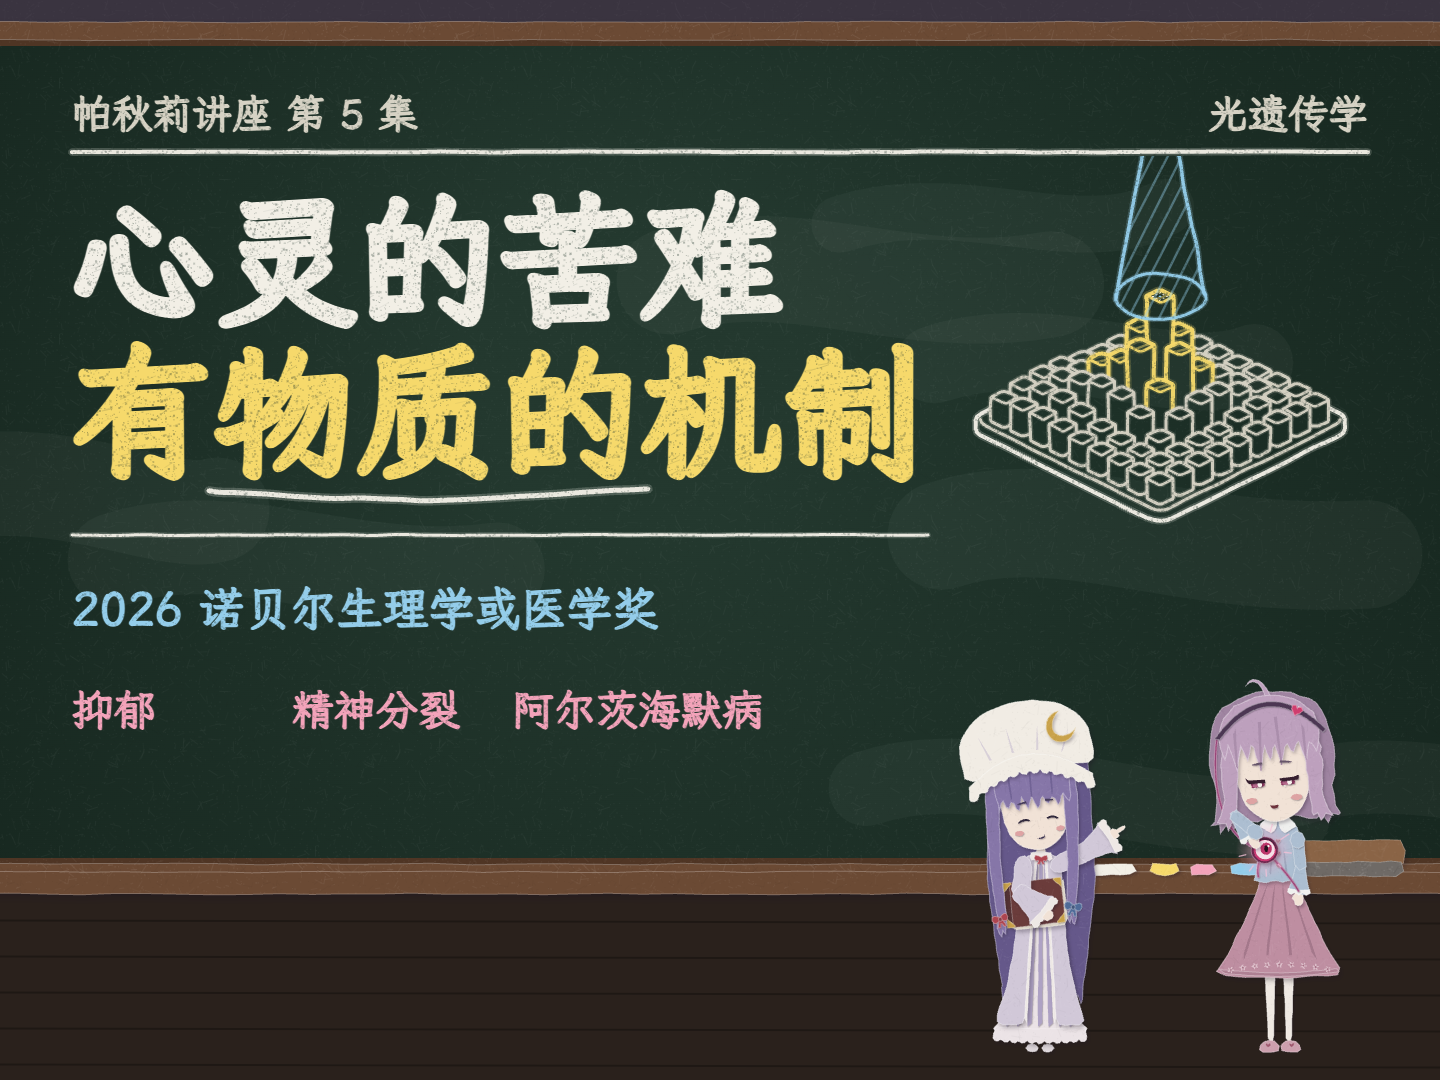
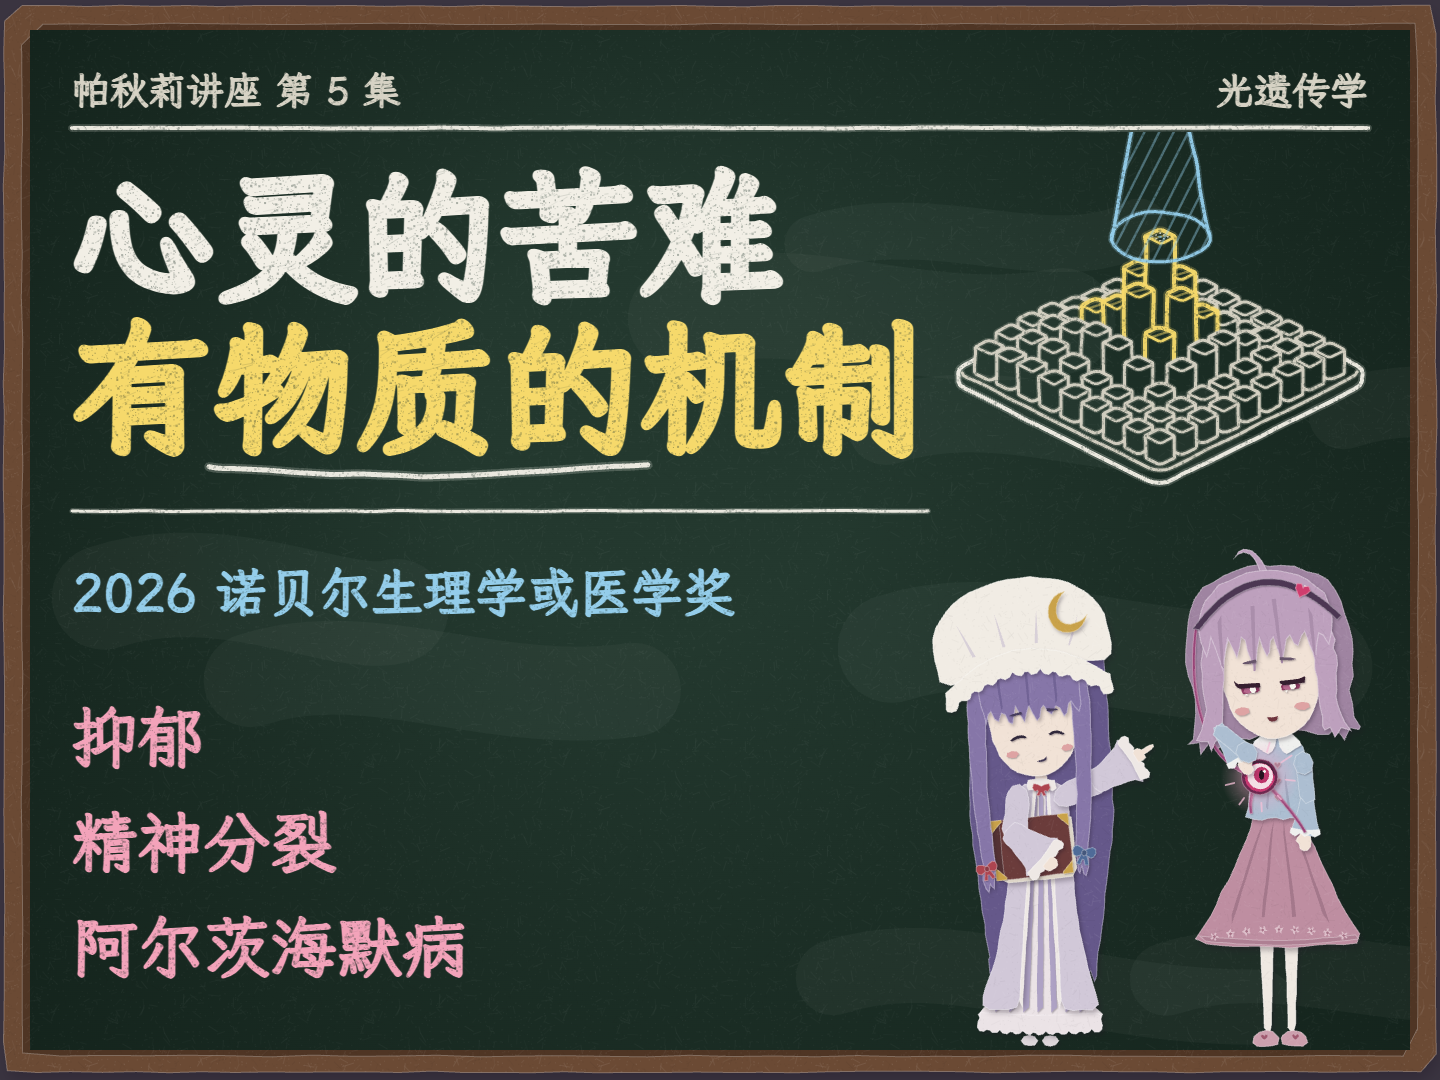
4:3 封面去掉地板和粉笔槽，黑板铺满；左下三行字与右侧两人咬合，整体放大

diff --git a/cover.html b/cover.html
@@ -32,39 +32,61 @@ cv.width = CW; cv.height = CH;
 // 16:9：左 4 列是字（片名 / 副标题 / 三种病），右 2 列是光照柱阵，两个角色站在柱阵下面。
 // 4:3：取 1920 画面中间 1440（左右各裁 240），同一套版式按列宽缩小。
 const WIDE = COV_AR === '169', OX = WIDE ? 0 : 240;
-const G = WIDE ? { M: 120, cw: 260 } : { M: 312, cw: 196 }, GUT = 24;
-const col = k => G.M + (k - 1) * (G.cw + GUT), colEnd = k => col(k) + G.cw, XR = colEnd(6);
-const Y_INFO = 128, Y_RULE = 152, FEET = 1052, CH_H = WIDE ? 430 : 360;
+// 两种比例的数值。4:3 不要地板和粉笔槽：黑板铺满整张图，左下三行字和右边两个人像拼图一样咬合。
+const L = WIDE
+  ? { M: 120, cw: 260, info: 128, rule: 152, tag: 40, gap: 64, sub: 56, subGap: 82, ill: 52, illGap: 92, illRow: false, ter: [440, 500], feet: 1052, h: 430 }
+  : { M: 312, cw: 196, info: 104, rule: 128, tag: 38, gap: 72, sub: 52, subGap: 100, ill: 66, illGap: 150, illRow: 105, ter: [372, 420], feet: 1046, h: 480 };
+const GUT = 24, col = k => L.M + (k - 1) * (L.cw + GUT), colEnd = k => col(k) + L.cw, XR = colEnd(6);
+if (!WIDE) {   // 板面扩到整张 4:3（画布坐标 x 240–1680）；粉笔层按新板面裁切
+  Object.assign(CKB, { x: OX + 30, y: 30, w: 1440 - 60, h: 1080 - 60 }); CKB.cx = CKB.x + CKB.w / 2; CKB.cy = CKB.y + CKB.h / 2;
+  Object.assign(CKCAM0, { x: CKB.cx, y: CKB.cy });
+}
+// 4:3 的背景：只有木框和板面（照 ckRoom 的画法，去掉地板、粉笔槽、板擦）
+function covBoard(c) {
+  const { x, y, w, h } = CKB;
+  c.fillStyle = CK.wall; c.fillRect(0, 0, W, H);
+  cutPaper(c, rectPts(x - 26, y - 24, w + 52, h + 46, 6), CK.frame, { seed: 3101, step: 30, blur: 14, sy: 8, grain: .14 });
+  cutPaper(c, rectPts(x - 8, y - 6, w + 16, h + 12, 3), CK.frame2, { seed: 3102, step: 40, shadow: false, grain: .1 });
+  c.save(); c.fillStyle = CK.slate; c.fillRect(x, y, w, h);
+  const g = c.createRadialGradient(x + w * .45, y + h * .4, h * .2, x + w / 2, y + h / 2, w * .62);
+  g.addColorStop(0, alpha(CK.slate2, .9)); g.addColorStop(1, alpha('#0f1c16', .65)); c.fillStyle = g; c.fillRect(x, y, w, h);
+  c.beginPath(); c.rect(x, y, w, h); c.clip();
+  c.globalAlpha = .035; c.strokeStyle = CK.ink; c.lineCap = 'round'; const r = rng(3103);
+  for (let k = 0; k < 9; k++) { c.lineWidth = 50 + r() * 70; const sx = x + r() * w, sy = y + 60 + r() * (h - 120); c.beginPath(); c.moveTo(sx, sy); c.bezierCurveTo(sx + 120, sy - 40, sx + 240, sy + 30, sx + 260 + r() * 200, sy + (r() - .5) * 60); c.stroke(); }
+  c.restore();
+  grain(c, polyPath(rectPts(x, y, w, h)), .07);
+}
 function covRule(lc, x0, x1, y, seed, w = 4) { ckLine(lc, [[x0, y], [x1, y]], { w, color: 'ink', seed, amp: .6 }); }
 function covDraw(c) {
   c.save(); c.translate(-OX, 0);
-  ckRoom(c, 0);
-  const tsW = (colEnd(4) - col(1)) / 6 | 0;   // 「有物质的机制」6 个字压满前 4 列
-  const y1 = Y_RULE + 36 + Math.round(tsW * .86), y2 = y1 + Math.round(tsW * 1.08);
-  let terr;
+  if (WIDE) ckRoom(c, 0); else covBoard(c);
+  const ts = (colEnd(4) - col(1)) / 6 | 0;   // 「有物质的机制」6 个字压满前 4 列
+  const y1 = L.rule + 36 + Math.round(ts * .86), y2 = y1 + Math.round(ts * 1.08);
   ckLayer(c, CKCAM0, lc => {
     // 顶线 + 信息行
-    ckText(lc, '帕秋莉讲座 第 5 集', col(1), Y_INFO, { size: 40, color: 'muted' });
-    ckText(lc, '光遗传学', XR, Y_INFO, { size: 40, color: 'muted', align: 'right' });
-    covRule(lc, col(1), XR, Y_RULE, 3);
+    ckText(lc, '帕秋莉讲座 第 5 集', col(1), L.info, { size: L.tag, color: 'muted' });
+    ckText(lc, '光遗传学', XR, L.info, { size: L.tag, color: 'muted', align: 'right' });
+    covRule(lc, col(1), XR, L.rule, 3);
     // 片名
-    ckText(lc, '心灵的苦难', col(1), y1, { size: tsW, heavy: true });
-    ckText(lc, '有物质的机制', col(1), y2, { size: tsW, color: 'yellow', heavy: true });
-    ckUnderline(lc, '物质的', col(1) + zhWidth(lc, '有', tsW), y2, tsW, 'ink', 1, 9);
-    // 左 4 列：线 → 副标题 → 三种病，各自起在列线上
-    const yr = y2 + (WIDE ? 64 : 72), ys = yr + (WIDE ? 82 : 90), yi = ys + (WIDE ? 92 : 100);
+    ckText(lc, '心灵的苦难', col(1), y1, { size: ts, heavy: true });
+    ckText(lc, '有物质的机制', col(1), y2, { size: ts, color: 'yellow', heavy: true });
+    ckUnderline(lc, '物质的', col(1) + zhWidth(lc, '有', ts), y2, ts, 'ink', 1, 9);
+    // 左 4 列：线 → 副标题 → 三种病（16:9 一行、各起在列线上；4:3 三行竖排）
+    const yr = y2 + L.gap, ys = yr + L.subGap, yi = ys + L.illGap;
     covRule(lc, col(1), colEnd(4), yr, 5, 3);
-    ckText(lc, '2026 诺贝尔生理学或医学奖', col(1), ys, { size: WIDE ? 56 : 46, color: 'blue' });
-    [['抑郁', 1], ['精神分裂', 2], ['阿尔茨海默病', 3]].forEach(([t, k]) => ckText(lc, t, col(k), yi, { size: WIDE ? 52 : 42, color: 'pink' }));
+    ckText(lc, '2026 诺贝尔生理学或医学奖', col(1), ys, { size: L.sub, color: 'blue' });
+    ['抑郁', '精神分裂', '阿尔茨海默病'].forEach((t, i) => L.illRow
+      ? ckText(lc, t, col(1), yi + i * L.illRow, { size: L.ill, color: 'pink' })
+      : ckText(lc, t, col(i + 1), yi, { size: L.ill, color: 'pink' }));
     // 右 2 列：柱阵，光纤从顶线落下（裁在这两列里）
-    lc.save(); lc.beginPath(); lc.rect(col(5), Y_RULE + 4, XR - col(5), 900); lc.clip();
-    terr = isoTerrain(lc, { x: (col(5) + XR) / 2, y: WIDE ? 440 : 420, s: WIDE ? 500 : 384, light: [4, 4], r: 3, level: 1.7, beam: true });
+    lc.save(); lc.beginPath(); lc.rect(col(5), L.rule + 4, XR - col(5), 900); lc.clip();
+    isoTerrain(lc, { x: (col(5) + XR) / 2, y: L.ter[0], s: L.ter[1], light: [4, 4], r: 3, level: 1.7, beam: true });
     lc.restore();
   }, { grainAl: .4 });
   // 两个角色：同高，脚踩同一条线，各站第 5、6 列中线
   const xp = (col(5) + colEnd(5)) / 2 - 10, xs = (col(6) + colEnd(6)) / 2 + 10;
-  drawPatchouli(c, { x: xp, y: FEET, h: CH_H, facing: 1, pose: 'point', gesture: .7, mood: 'smug', t: 1.2 });
-  drawSatori(c, { x: xs, y: FEET, h: CH_H, facing: -1, pose: 'read', mood: 'smile', read: 1, eyeLook: [-.4, -.6], t: 1.2 });
+  drawPatchouli(c, { x: xp, y: L.feet, h: L.h, facing: 1, pose: 'point', gesture: .7, mood: 'smug', t: 1.2 });
+  drawSatori(c, { x: xs, y: L.feet, h: L.h, facing: -1, pose: 'read', mood: 'smile', read: 1, eyeLook: [-.4, -.6], t: 1.2 });
   c.restore();
 }
 document.fonts.load('40px WenKai', '心灵的苦难有物质的机制帕秋莉讲座第集光遗传学诺贝尔生理学或医学奖').then(() => document.fonts.ready).then(() => { const c = cv.getContext('2d'); CLOCK0 = 0; covDraw(c); window.__ready = true; });
